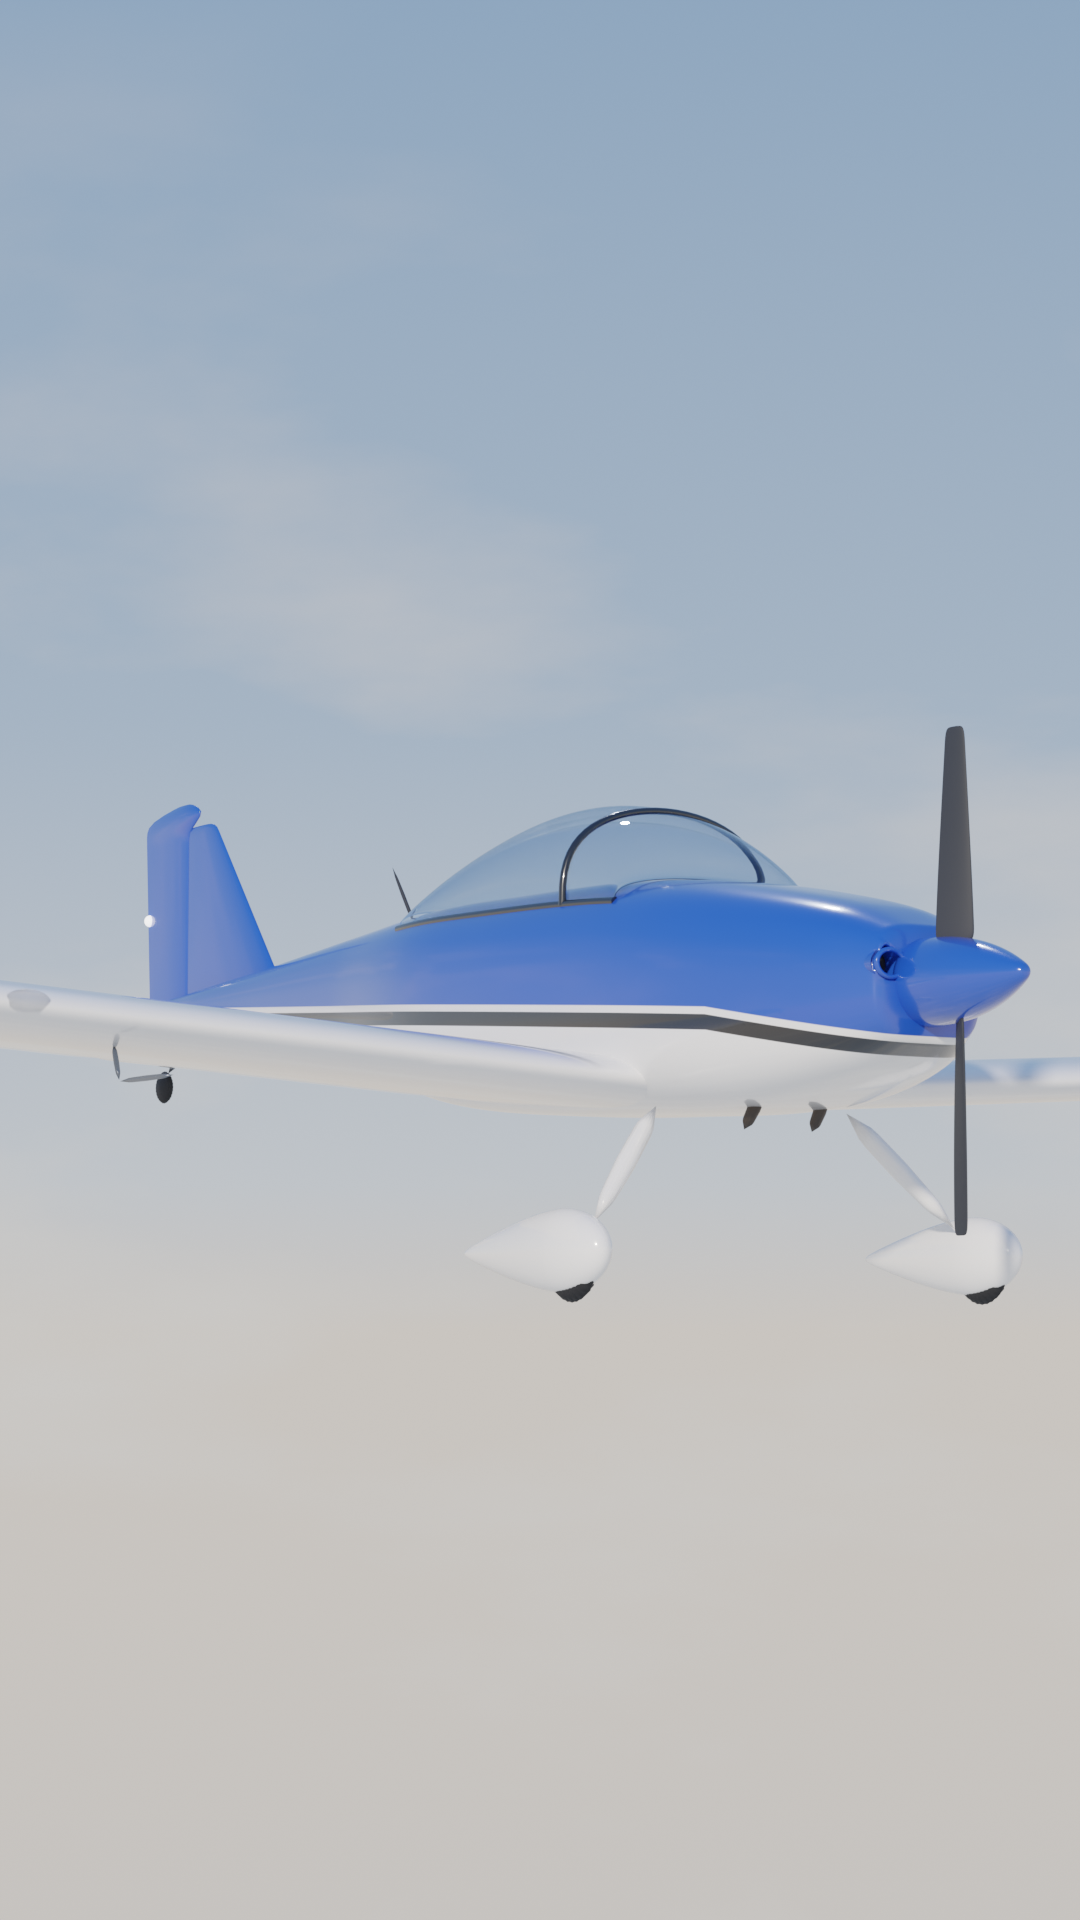
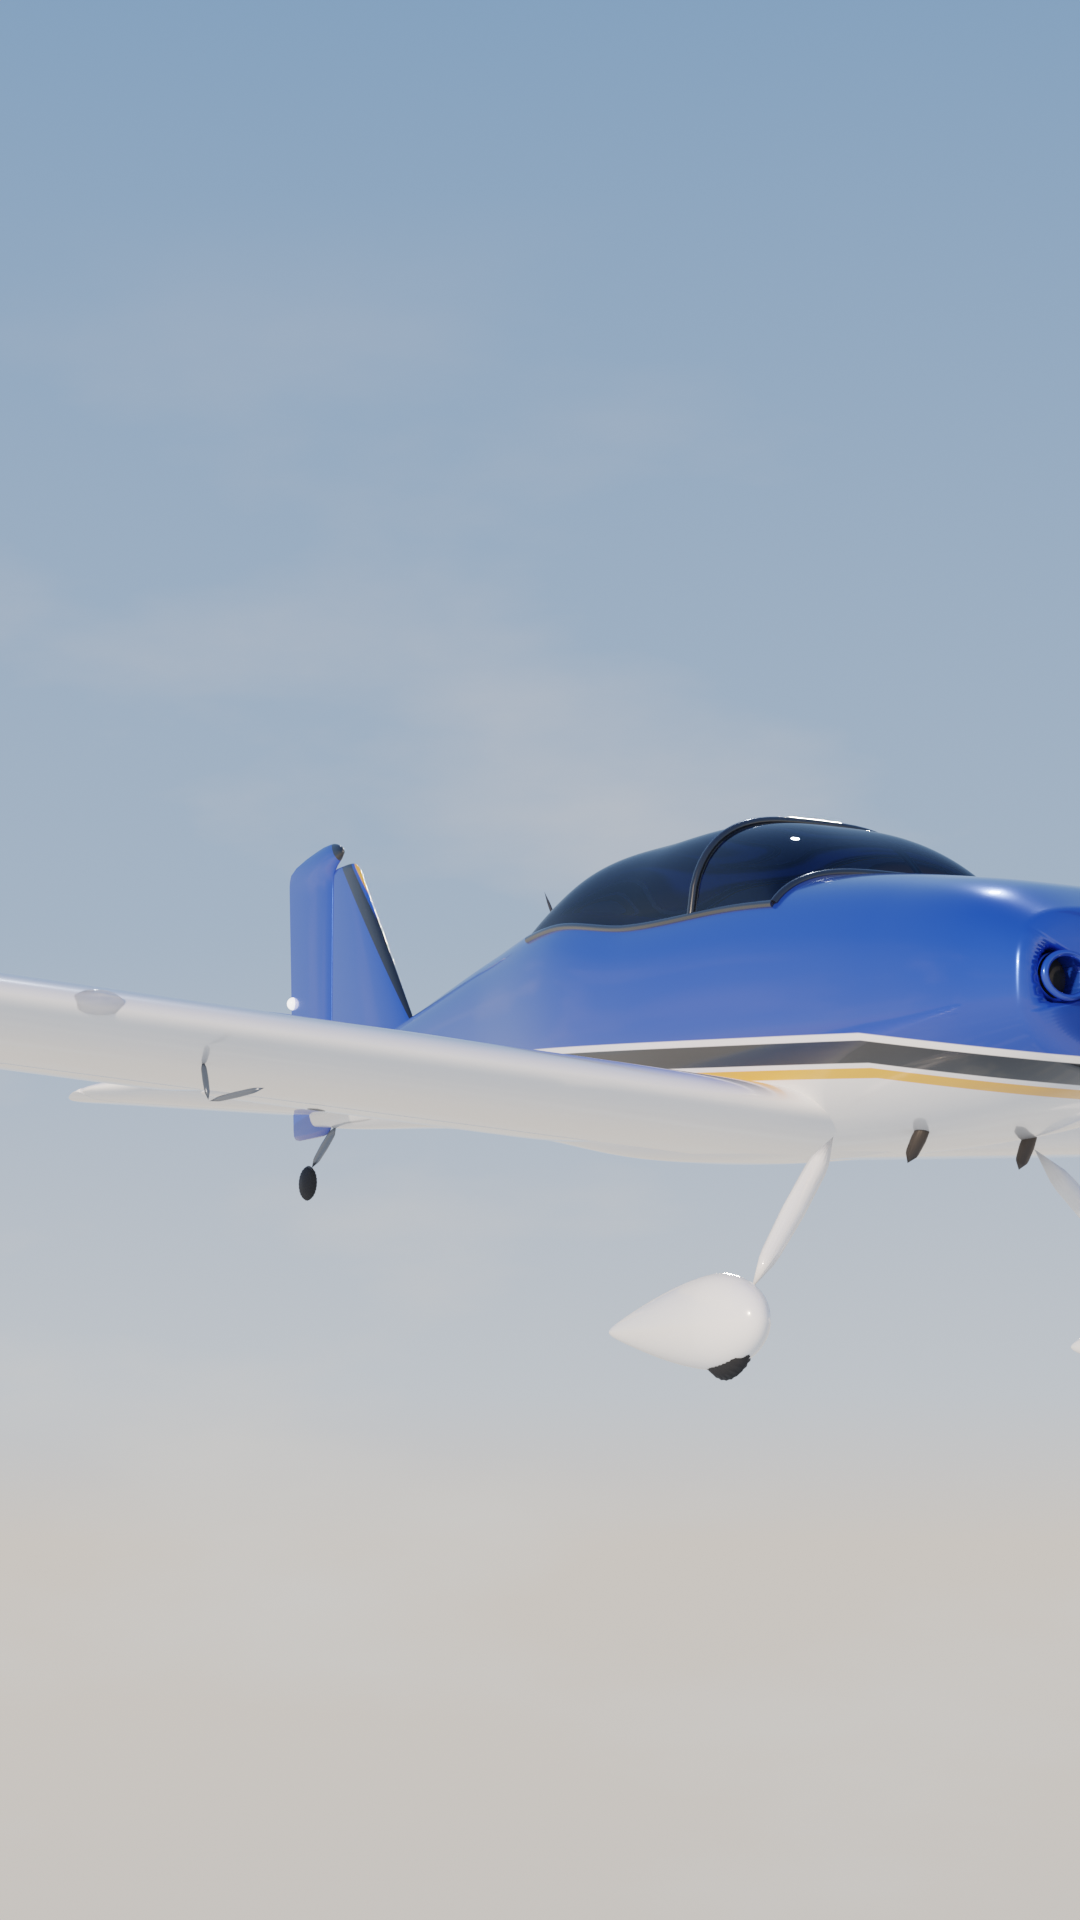
RV-7: slim-belly turnaround; re-frame the beauty shot (nose was cropped)
Claude-Session: https://claude.ai/code/session_018jxg9Y6MEJGQTKVYb6Cmy4

diff --git a/assets/blender/build_rv7.py b/assets/blender/build_rv7.py
@@ -603,7 +603,7 @@ STUDIO_SHOTS = {
     'studio_top': ((3.0, 0.01, 16.0), (3.0, 0, 0)),
     'studio_low': ((-7.5, 7.5, -0.95), (2.6, 0, 0.25)),
 }
-SKY_SHOTS = {'beauty': ((-9.0, 7.4, -1.7), (2.4, 0.9, 0.35))}
+SKY_SHOTS = {'beauty': ((-12.0, 9.4, -2.0), (1.6, 0.0, 0.25))}
 
 
 def render(sc, name, loc, look, lens=70):
